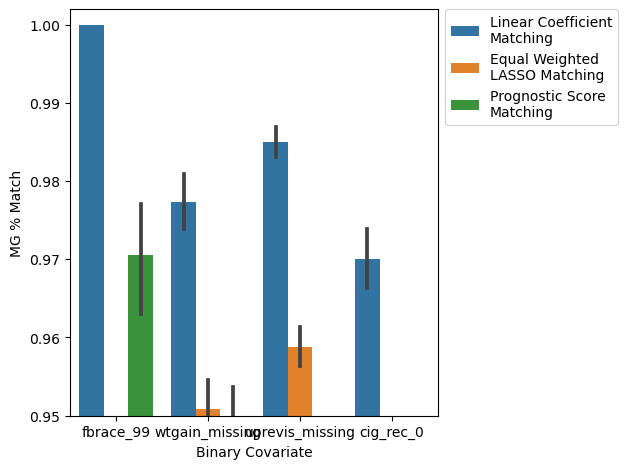
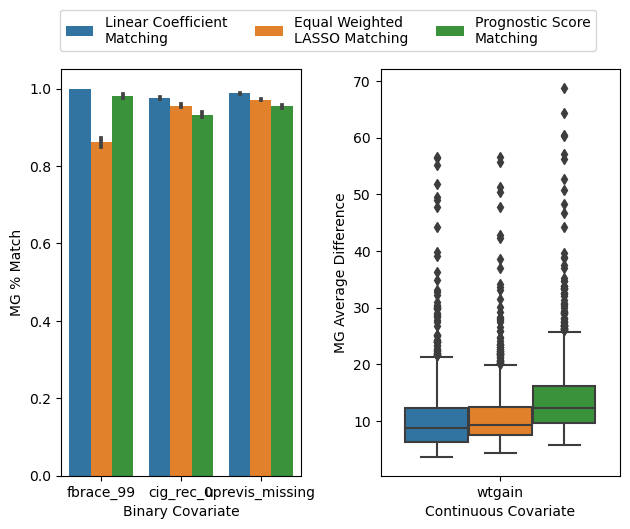
laso commit before trying to increase power of methods

diff --git a/Experiments/acic_error_and_runtime/plotting/times.py b/Experiments/acic_error_and_runtime/plotting/times.py
@@ -10,8 +10,48 @@ import seaborn as sns
 all_folders = glob(f"{os.getenv('RESULTS_FOLDER')}/*/", recursive=True)
 
 n_repeats = 25
+plot_name = '_results_main'
 q = 0.5
-methods = ['LASSO Coefficient Matching', 'MALTS Matching', 'Prognostic Score Matching', 'BART', 'Causal Forest']
+methods = [
+    'LASSO Coefficient Matching',
+    # 'Tree Feature Importance Matching',
+    'Manhattan with Feature Selection',
+    # 'Equal Weighted LASSO Matching',
+    'MALTS Matching',
+    'Prognostic Score Matching',
+    'BART',
+    'DoubleML',
+    'DRLearner',
+    'Causal Forest',
+    'Causal Forest 2'
+    # 'Causal Forest DML'
+]
+
+rename_methods = {
+    "BART": "T-Learner BART",
+    "Causal Forest 2": "Causal Forest\nDML",
+    # "Causal Forest DML": "Causal Forest\nDML",
+    # 'LASSO Coefficient Matching': 'LASSO Coefficient\nMatching',
+    "Manhattan with Feature Selection": "Equal Weighted\nLASSO Matching",
+    "Equal Weighted LASSO Matching": "Equal Weighted\nLASSO Matching",
+    'Prognostic Score Matching': 'Prognostic Score\nMatching',
+    "DoubleML": "Linear DoubleML",
+    "DRLearner": "Linear DRLearner"
+}
+
+order = [
+    'LASSO Coefficient\nMatching',
+    "Equal Weighted\nLASSO Matching",
+    # 'Tree Feature Importance Matching',
+    'MALTS Matching',
+    'Prognostic Score\nMatching',
+    "T-Learner BART",
+    'Causal Forest',
+    "Causal Forest\nDML",
+    'Linear DoubleML',
+    'Linear DRLearner'
+]
+
 all_times = pd.DataFrame([], index=methods)
 failed_files = {}
 name_to_label = {}
@@ -19,8 +59,14 @@ methods_dirs = {
     'BART': 'bart_fit_times',
     'Causal Forest': 'causalforest_fit_times',
     'LASSO Coefficient Matching': 'lcm_fit_times',
+    'Manhattan with Feature Selection': 'equal_lcm_fit_times',
+    # 'Equal Weighted LASSO Matching': 'lcm_fit_times',
     'MALTS Matching': 'malts_fit_times',
-    'Prognostic Score Matching': 'prognostic_fit_times'
+    'Prognostic Score Matching': 'prognostic_fit_times',
+    'DoubleML': 'doubleml_fit_times',
+    'DRLearner': 'drlearner_fit_times',
+    'Causal Forest 2': 'causalforest_dml_fit_times'
+    # 'Causal Forest DML': 'causalforest_dml_fit_times
 }
 
 acic_2018_file_no = 1
@@ -63,27 +109,28 @@ all_times = all_times.reset_index().melt(id_vars=['index'])
 all_times.columns = ['Method', 'ACIC File', 'Single CATE Runtime (s)']
 all_times[['acic_year', 'acic_file_no']] = all_times['ACIC File'].str.split(expand=True).iloc[:, 1:].astype(int)
 all_times = all_times.sort_values(['acic_year', 'acic_file_no'])
-all_times = all_times.drop(columns=['acic_year', 'acic_file_no'])
+all_times['Method'] = all_times['Method'].apply(lambda x: rename_methods[x] if x in rename_methods.keys() else x)
 
 plt.figure()
 sns.set_context("paper")
 sns.set_style("darkgrid")
 sns.set(font_scale=1)
-ax = sns.catplot(data=all_times, x="ACIC File", y="Single CATE Runtime (s)", hue="Method", kind="bar")
+ax = sns.catplot(data=all_times, x="ACIC File", y="Single CATE Runtime (s)", hue="Method", kind="bar", hue_order=order)
 plt.xticks(rotation=65, horizontalalignment='right')
 plt.tight_layout()
 plt.legend(loc='upper right', prop={'size': 10})
 plt.yscale('log')
-plt.savefig('plots/acic_cate_runtimes.png')
+plt.savefig(f'plots/acic_cate_runtimes{plot_name}.png')
 
 plt.figure()
 sns.set_context("paper")
 sns.set_style("darkgrid")
 sns.set(font_scale=1)
-sns.boxplot(data=all_times[all_times['Method'] != 'MALTS Matching'], x="Single CATE Runtime (s)", y="Method")
+sns.boxplot(data=all_times[all_times['Method'] != 'MALTS Matching'], x="Single CATE Runtime (s)", y="Method",
+            order=order)
 plt.xticks(rotation=65, horizontalalignment='right')
 plt.tight_layout()
-plt.savefig('plots/acic_cate_runtimes_by_method.png')
+plt.savefig(f'plots/acic_cate_runtimes_by_method{plot_name}.png')
 
 rankings = all_times.sort_values(['ACIC File', 'Single CATE Runtime (s)'],ascending=True)
 n_methods = rankings['Method'].nunique()
@@ -94,7 +141,7 @@ plt.figure()
 sns.set_context("paper")
 sns.set_style("darkgrid")
 sns.set(font_scale=1)
-sns.boxplot(data=rankings, x="Ranking", y="Method")
+sns.boxplot(data=rankings, x="Ranking", y="Method", order=order)
 plt.xticks(rotation=65, horizontalalignment='right')
 plt.tight_layout()
-plt.savefig('plots/acic_cate_runtimes_ranking.png')
+plt.savefig(f'plots/acic_cate_runtimes_ranking{plot_name}.png')

diff --git a/Experiments/mg_comparison/acic_mg_comparison.py b/Experiments/mg_comparison/acic_mg_comparison.py
@@ -6,6 +6,7 @@ import warnings
 
 import matplotlib.pyplot as plt
 import seaborn as sns
+from sklearn.model_selection import train_test_split
 
 from other_methods import prognostic
 from src.linear_coef_matching import LCM
@@ -26,6 +27,7 @@ k_est = int(os.getenv('K_EST'))
 
 with open(f'{acic_results_folder}/split.pkl', 'rb') as f:
     est_idx, train_idx = pickle.load(f)[split_num]
+
 
 acic_name = acic_results_folder.split('_')[-2].split('-')[-1]
 save_folder = f'Results/{acic_name}{"_only_pos" if only_pos else ""}'
@@ -207,7 +209,7 @@ sample = np.random.choice(df_est[df_est['cig_rec_0'] == 1].index)
 
 this_sample = df_est.loc[sample]
 if this_sample['T'] == 0:
-    prog_sample_mg = prog_t_mg.loc[sample][:]
+    prog_sample_mg = prog_t_mg.loc[sample][:5]
     lcm_sample_mg = lcm_t_mg.loc[sample][:5]
     ewl_sample_mg = ewl_t_mg.loc[sample][:5]
 else:

diff --git a/Experiments/acic_error_and_runtime/plotting/errors.py b/Experiments/acic_error_and_runtime/plotting/errors.py
@@ -7,7 +7,7 @@ import seaborn as sns
 
 all_folders = glob(f"{os.getenv('RESULTS_FOLDER')}/*/", recursive=True)
 
-plot_name = '_results2'
+plot_name = '_results'
 q = 0.5
 methods = [
     'LASSO Coefficient Matching',
